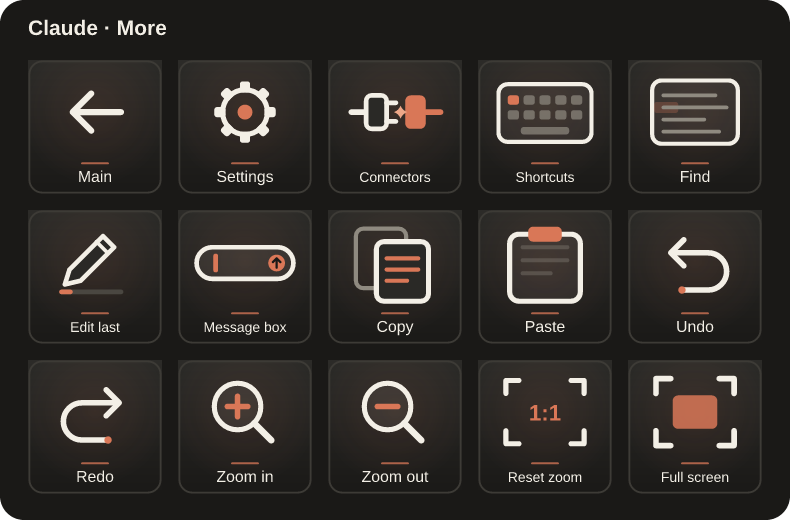
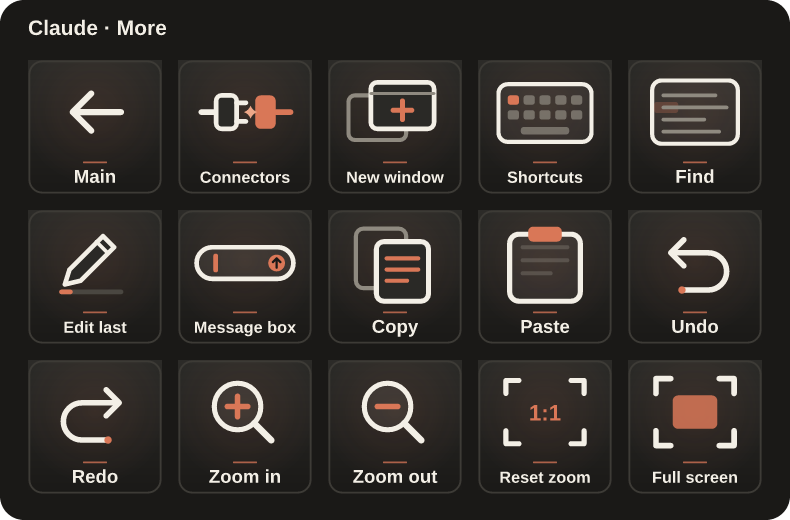
Claude Controls 1.2.2: bold Segoe UI labels, sidebar button, layout fixes
Claude-Session: https://claude.ai/code/session_01KbLvN91oRRpS5XvghCrm8A

diff --git a/shared/brands/claude.js b/shared/brands/claude.js
@@ -10,6 +10,9 @@ export const CLAUDE_TOKENS = {
 	serif: "Georgia, 'Times New Roman', 'DejaVu Serif', serif",
 };
 
+// Key labels: Segoe UI Bold, the same family as Windows Daily Toolkit (title case on Claude Dark/Light).
+export const LABEL_FONT = "'Segoe UI', 'DejaVu Sans', Arial, sans-serif";
+
 // Mutable palette used while one key renders (renders are synchronous, so this is safe).
 const T = { ...CLAUDE_TOKENS };
 const TAU = Math.PI * 2;
@@ -254,7 +257,7 @@ export function claudeKeySvg({ glyph, label = "", phase = 0, setup = false, anim
 	const serif = pal.font === "serif";
 	const raw = String(label).slice(0, 14);
 	const text = esc(serif ? raw : raw.toUpperCase());
-	const fs = serif ? (text.length > 11 ? 13 : text.length > 8 ? 15 : 17) : Math.min(15, Math.floor(118 / Math.max(1, raw.length * 0.66)));
+	const fs = serif ? (raw.length > 11 ? 15.5 : raw.length > 8 ? 17.5 : 20) : Math.min(18, Math.floor(130 / Math.max(1, raw.length * 0.64)));
 	const glowOp = (style === "vivid" ? 0.16 : style === "neon" ? 0.22 : 0.10) + 0.06 * wave(p);
 	let body = `<defs><linearGradient id="${u}b" x1="0" y1="0" x2="${style === "vivid" ? 1 : 0}" y2="1"><stop offset="0" stop-color="${pal.bgTop}"/><stop offset="1" stop-color="${pal.bgBottom}"/></linearGradient>` +
 		`<radialGradient id="${u}g" cx=".5" cy=".38" r=".55"><stop offset="0" stop-color="${pal.glow}" stop-opacity="${f(glowOp)}"/><stop offset="1" stop-color="${pal.glow}" stop-opacity="0"/></radialGradient>` +
@@ -267,10 +270,10 @@ export function claudeKeySvg({ glyph, label = "", phase = 0, setup = false, anim
 	if (animate && (style === "neon" || style === "vivid" || style === "pro")) body += `<rect x="2.5" y="2.5" width="139" height="139" rx="13" fill="none" stroke="#fff" stroke-width="1.6" stroke-opacity=".28" stroke-dasharray="30 526" stroke-dashoffset="${f(-p * 556)}"/>`;
 	body += `<g data-claude-glyph="${esc(glyph)}">${draw(p)}</g>`;
 	if (setup) body += `<rect x="46" y="92" width="52" height="15" rx="7.5" fill="${pal.clay}"/><text x="72" y="103" text-anchor="middle" font-family="Segoe UI, Arial" font-size="9.5" font-weight="700" letter-spacing="1" fill="${pal.cut}">SETUP</text>`;
-	if (text) body += (serif ? `<path d="M58 111h28" stroke="${pal.clay}" stroke-width="2" stroke-linecap="round" opacity=".75"/>` +
-		`<text x="72" y="131" text-anchor="middle" font-family="${CLAUDE_TOKENS.serif}" font-size="${fs}" fill="${pal.ink}">${text}</text>` :
-		`<text x="72" y="132.5" text-anchor="middle" font-family="Segoe UI, Arial, Helvetica, sans-serif" font-size="${fs}" font-weight="700" letter-spacing="${raw.length > 9 ? 0.4 : 1.2}" fill="#000" opacity=".35">${text}</text>` +
-		`<text x="72" y="131" text-anchor="middle" font-family="Segoe UI, Arial, Helvetica, sans-serif" font-size="${fs}" font-weight="700" letter-spacing="${raw.length > 9 ? 0.4 : 1.2}" fill="${style === "neon" ? "#ffffff" : pal.ink}">${text}</text>`);
+	if (text) body += (serif ? `<path d="M60 110h24" stroke="${pal.clay}" stroke-width="2" stroke-linecap="round" opacity=".75"/>` +
+		`<text x="72" y="132" text-anchor="middle" font-family="${LABEL_FONT}" font-size="${fs}" font-weight="700" fill="${pal.ink}">${text}</text>` :
+		`<text x="72" y="132.5" text-anchor="middle" font-family="Segoe UI, Arial, Helvetica, sans-serif" font-size="${fs}" font-weight="800" letter-spacing="${raw.length > 9 ? 0.3 : 1}" fill="#000" opacity=".35">${text}</text>` +
+		`<text x="72" y="131" text-anchor="middle" font-family="Segoe UI, Arial, Helvetica, sans-serif" font-size="${fs}" font-weight="800" letter-spacing="${raw.length > 9 ? 0.3 : 1}" fill="${style === "neon" ? "#ffffff" : pal.ink}">${text}</text>`);
 	Object.assign(T, CLAUDE_TOKENS);
 	return `<svg xmlns="http://www.w3.org/2000/svg" width="144" height="144" viewBox="0 0 144 144"><g data-app-design="claude" data-style="${style}">${body}</g></svg>`;
 }

diff --git a/shared/host-script.ts b/shared/host-script.ts
@@ -758,7 +758,8 @@ while ($true) {
 				if ($a[0] -and -not [DailyOpsWin]::Activate($a[0])) { $status = 'miss'; $msg = 'not running: ' + $a[0]; break }
 				$sh = Shell
 				$first = $true
-				foreach ($st in @(ConvertFrom-Json $a[1])) {
+				$steps = ConvertFrom-Json $a[1]
+				foreach ($st in @($steps)) {
 					if ($first -and $a[0]) { Start-Sleep -Milliseconds 90 }
 					$first = $false
 					if ($st.w) { Start-Sleep -Milliseconds ([int]$st.w) }
@@ -778,7 +779,9 @@ while ($true) {
 				$target = [DailyOpsWin]::ForegroundPid()
 				if (-not (& $isApp $target)) { $status = 'miss'; $msg = 'The app did not come to the front. Nothing was sent.'; break }
 				$sh = Shell
-				foreach ($st in @(ConvertFrom-Json $a[2])) {
+				# Windows PowerShell 5.1 returns a JSON array as one object from a pipeline; assign first so it enumerates.
+				$steps = ConvertFrom-Json $a[2]
+				foreach ($st in @($steps)) {
 					if ([DailyOpsWin]::ForegroundPid() -ne $target) { $status = 'miss'; $msg = 'The app lost focus. Nothing more was sent.'; break }
 					if ($st.w) { Start-Sleep -Milliseconds ([Math]::Min(2000, [int]$st.w)) }
 					if ($st.k) { $sh.SendKeys([string]$st.k) }

diff --git a/CHANGELOG.md b/CHANGELOG.md
@@ -1,12 +1,22 @@
 # Changelog
 
+## 1.2.2
+
+- Bigger, bold key labels in Segoe UI (the same font family as Windows Daily Toolkit).
+- Sidebar now presses Claude's own sidebar button (the Claude app has no reliable sidebar shortcut).
+- Incognito uses the `?incognito` app link. Artifacts moved off the default page (some app versions do not open it from a link); Settings takes its place, Connectors and New window move to page 2.
+
+## 1.2.1
+
+- Fixed shortcut keys (Search chats, Sidebar, Find, Shortcuts and others) failing on Windows PowerShell 5.1 with "Cannot convert System.Object[] to System.Int32".
+
 ## 1.2.0
 
 - **Works inside the Claude desktop app.** New chat, Incognito, Usage, Settings, Connectors, Projects, Recents, Artifacts, Claude Code and Cowork now use Claude's `claude://` app links, so they open inside the desktop app (and start it if needed) instead of the browser.
 - **Top Claude features as keys:** added Incognito, Projects, Recents, Artifacts, Claude Code, Cowork, Stop, Copy reply, Dictate (Win+H), Connectors, Edit last, Message box, New window, More and Main. 33 actions in total; every existing action ID is kept.
 - **Corrected shortcuts** for the desktop app: Search Ctrl+K, Sidebar Ctrl+Shift+S, Copy reply Ctrl+Shift+C, Shortcuts Ctrl+/, Redo Ctrl+Shift+Z, Zoom Ctrl+= / Ctrl+-.
 - **Faster, safer keys:** shortcuts go through the already-running helper instead of starting PowerShell on every press. The helper checks that Claude is really in front before each step and sends nothing if another window is active. Presses do not overlap.
-- **New look:** Claude Dark (default) with warm charcoal, ivory line icons, clay-orange accents and serif labels. Every icon has its own animation (6-second loop, labels stay still). Claude Light, Colourful, Vivid and Pro use the same icon set; Colourful, Vivid and Pro default to the new Clay colour and accept any of the 30 colours.
+- **New look:** Claude Dark (default) with warm charcoal, ivory line icons, clay-orange accents and bold Segoe UI labels. Every icon has its own animation (6-second loop, labels stay still). Claude Light, Colourful, Vivid and Pro use the same icon set; Colourful, Vivid and Pro default to the new Clay colour and accept any of the 30 colours.
 - **Two-page layout:** page 1 has the everyday keys, **More** opens page 2 (settings, editing and zoom).
 - Installer: asks before installing Stream Deck through Windows Package Manager, waits up to 60 s for the plugin to start, keeps working when WMI is restricted, runs every rollback step independently and pins the package checksum.
 - Reliability: the background helper restarts after a stuck command, and its crash budget resets after healthy replies.

diff --git a/README.md b/README.md
@@ -1,6 +1,6 @@
 # Claude Controls
 
-Unofficial Elgato Stream Deck plugin for the **Claude desktop app on Windows**. Version 1.2.0.0.
+Unofficial Elgato Stream Deck plugin for the **Claude desktop app on Windows**. Version 1.2.2.0.
 
 Keys open Claude pages **inside the desktop app** (not the browser), start chats, Claude Code sessions and Cowork tasks, and send the app's own keyboard shortcuts. Every icon is animated.
 
@@ -8,7 +8,7 @@ Keys open Claude pages **inside the desktop app** (not the browser), start chats
 
 ## Install in three steps
 
-1. Download **ClaudeControls-Installer-1.2.0.0.zip** from [Releases](https://github.com/nikhilgs817/streamdeck_claude/releases/latest).
+1. Download **ClaudeControls-Installer-1.2.2.0.zip** from [Releases](https://github.com/nikhilgs817/streamdeck_claude/releases/latest).
 2. Right-click the ZIP, choose **Extract All**, and open the extracted folder.
 3. Double-click **Install-ClaudeControls.cmd**. Wait for the success message; Stream Deck restarts automatically.
 
@@ -49,7 +49,7 @@ Open or focus Claude to show these keys automatically (needs Windows Daily Toolk
 
 | Style | Look |
 |---|---|
-| **Claude Dark** (default) | Warm charcoal keys, ivory line icons, clay-orange accents, serif labels |
+| **Claude Dark** (default) | Warm charcoal keys, ivory line icons, clay-orange accents, bold Segoe UI labels |
 | **Claude Light** | Cream paper keys with the same icons |
 | **Colourful** | Coloured icons on dark glass |
 | **Vivid** | White icons on a bright gradient |

diff --git a/docs/INSTALL.md b/docs/INSTALL.md
@@ -2,10 +2,10 @@
 
 ## Recommended: double-click installer
 
-1. Download **ClaudeControls-Installer-1.2.0.0.zip** from [GitHub Releases](https://github.com/nikhilgs817/streamdeck_claude/releases/latest).
+1. Download **ClaudeControls-Installer-1.2.2.0.zip** from [GitHub Releases](https://github.com/nikhilgs817/streamdeck_claude/releases/latest).
 2. Right-click the ZIP and choose **Extract All**. Open the extracted **ClaudeControls-Installer** folder.
 3. Double-click **Install-ClaudeControls.cmd**. Keep the other files in that folder.
-4. Wait for **Installed Claude Controls 1.2.0.0**. Stream Deck closes briefly and opens again automatically.
+4. Wait for **Installed Claude Controls 1.2.2.0**. Stream Deck closes briefly and opens again automatically.
 5. In Stream Deck, find **Claude Controls** in the action list. On a compatible 15-key deck, you can also choose **Claude** from the profile dropdown for its ready-made app layout.
 
 No Git, Node.js, npm, developer mode or build commands are needed. Run the installer as your normal Windows user. If Stream Deck is missing or too old, the script asks first, then can install/update the official **Elgato.StreamDeck** package through Windows Package Manager; Windows may request administrator approval for that prerequisite. If Windows Package Manager is unavailable, install Stream Deck from [Elgato Downloads](https://www.elgato.com/downloads), then run this installer again.
